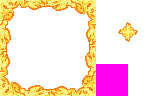
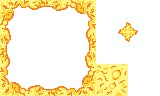
Adds broken cheese textures when cheese is broken

Changed region(s): [[0.5938, 0.6562, 0.8125, 1.0]]

diff --git a/src/cheeseMap.ts b/src/cheeseMap.ts
@@ -28,9 +28,14 @@ export class CheeseCell extends Cell {
       this.hp -= delta / 20;
       this.game.addScore(Math.round(delta / 10));
 
+      if (this.hp < 50) {
+        this.game.tileMap.drawCell(this);
+      }
+      
       if (this.hp <= 0) {
         this.game.tileMap.eatCheese(this);
       }
+
     }
   }
 
@@ -65,6 +70,8 @@ export class CheeseMap extends TileMap {
     this.game = game;
     const fgTilesheet = new SpriteSheet(game.assets.fgTilefile, 5, 3, 32, 32);
     this.registerSpriteSheet('default', fgTilesheet);
+    const brokenCheeseTilesheet = new SpriteSheet(game.assets.brokenCheeseTilefile, 5, 3, 32, 32);
+    this.registerSpriteSheet('brokenCheese', brokenCheeseTilesheet);
     const bgTilesheet = new SpriteSheet(game.assets.bgTilefile, 5, 3, 32, 32);
     this.registerSpriteSheet('background', bgTilesheet);
     const moldTilesheet = new SpriteSheet(
@@ -139,7 +146,11 @@ export class CheeseMap extends TileMap {
     const x = cell.tileX;
     cell.solid = this.mapdata[cell.dataY][cell.dataX];
     cell.pushSprite(new TileSprite('background', this.bgTiles[y][x]));
-    cell.pushSprite(new TileSprite('default', this.fgTiles[y][x]));
+    if (this.cheeseAt(cell.x, cell.y)!.hp <= 70) {
+      cell.pushSprite(new TileSprite('brokenCheese', this.fgTiles[y][x]));
+    } else {
+      cell.pushSprite(new TileSprite('default', this.fgTiles[y][x]));
+    }
     cell.pushSprite(new TileSprite('semimold', this.semimoldTiles[y][x]));
     cell.pushSprite(new TileSprite('mold', this.moldTiles[y][x]));
   };

diff --git a/src/index.ts b/src/index.ts
@@ -36,6 +36,7 @@ export class Game extends Engine {
 
   assets = {
     fgTilefile: new Texture('/assets/images/Kolo tiles.png'),
+    brokenCheeseTilefile: new Texture('assets/images/Syöty kolo tiles.png'),
     bgTilefile: new Texture('/assets/images/Tausta tiles.png'),
     moldTilefile: new Texture('/assets/images/Home kolo tiles.png'),
     cheeseParticles: new Texture(
